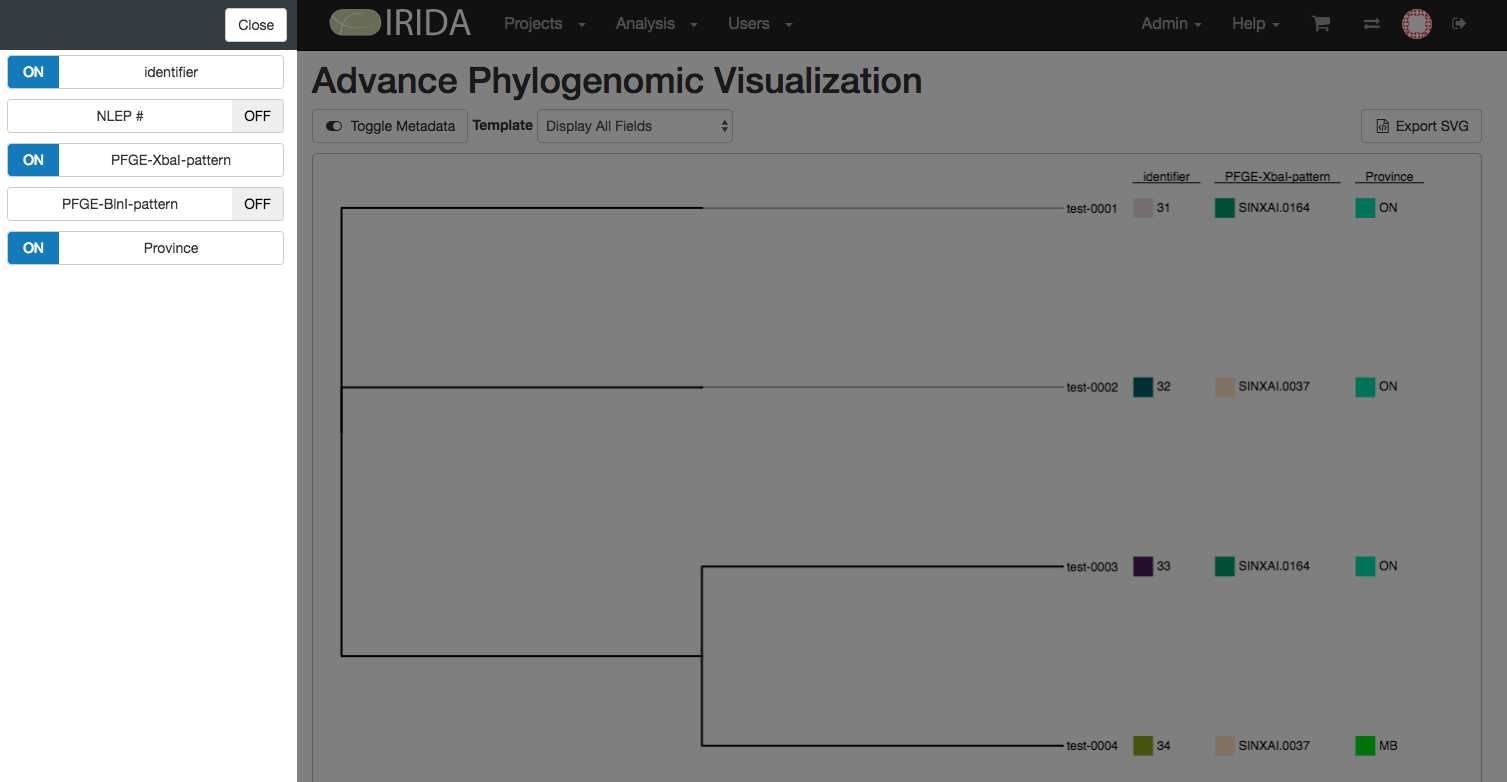
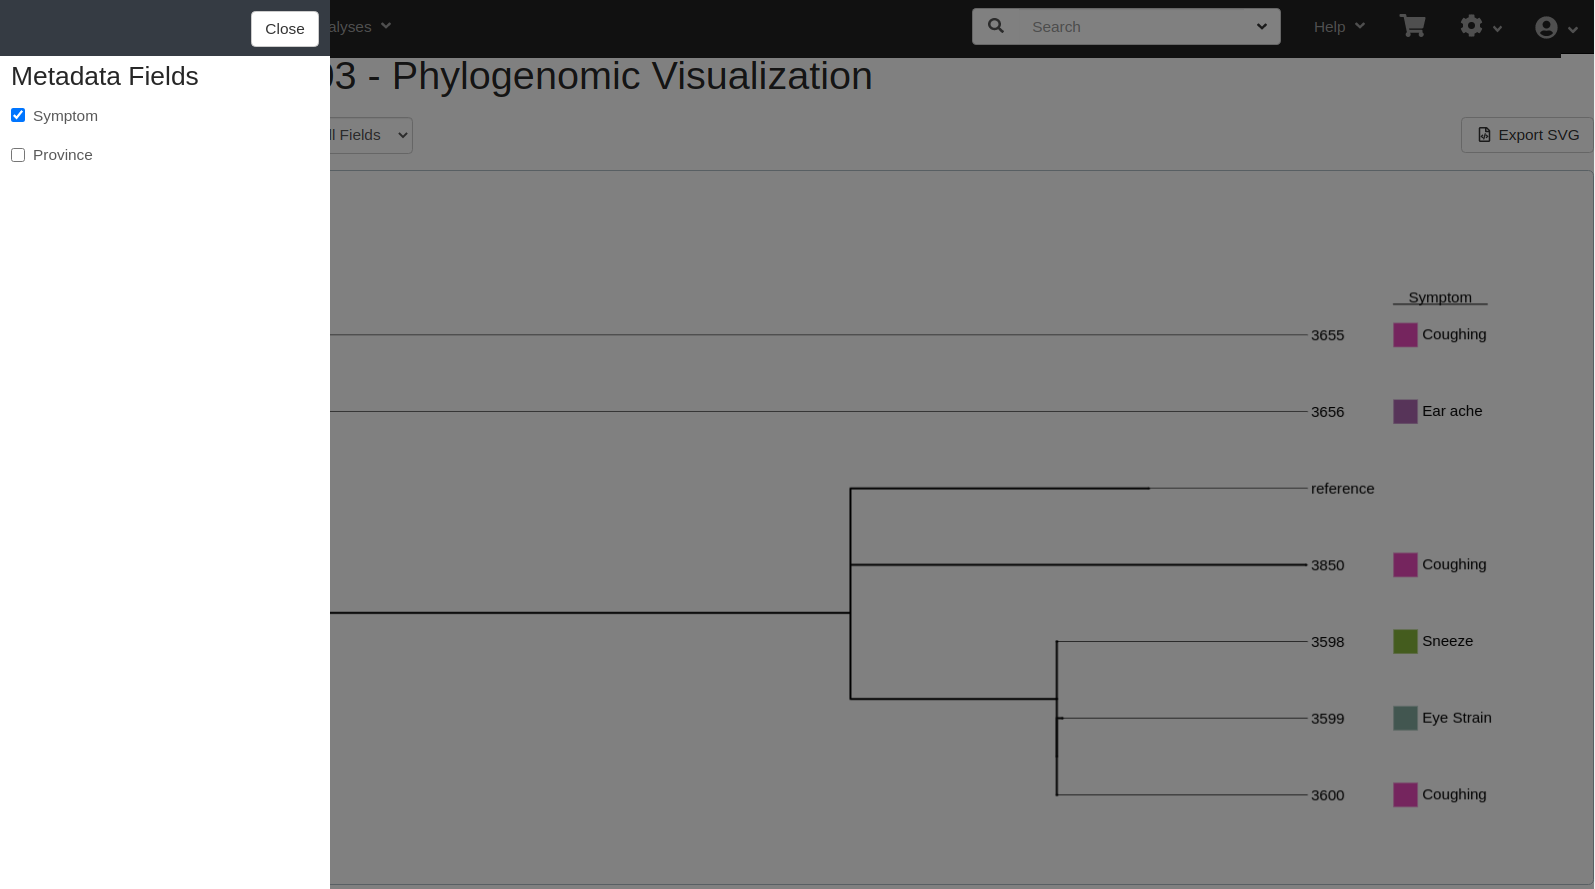
:memo: Update user docs and added a title

diff --git a/src/main/webapp/pages/analysis/visualizations/phylocanvas-metadata.html b/src/main/webapp/pages/analysis/visualizations/phylocanvas-metadata.html
@@ -73,6 +73,7 @@
         <div class="spaced-bottom" id="phylocanvas"></div>
       </script>
       <script type="text/ng-template" id="metadata-component.tmpl.html">
+        <h3 th:text="#{visualization.phylogenomics.fields.intro}">Metadata Fields</h3>
         <div class="spaced-bottom" ng-repeat="term in $ctrl.terms">
           <div class="checkbox">
             <label><input ng-model="term.selected" type="checkbox" ng-change="$ctrl.onSelectionChange(term)"/> {{term.term}}</label>

diff --git a/doc/user/user/analysis-visualizations/index.md b/doc/user/user/analysis-visualizations/index.md
@@ -31,7 +31,7 @@ To get to the advanced visualization page, on the analysis page, click the `View
 
 #### Toggling Sample Metadata Fields
 
-Individual Metadata Fields can be displayed or hidden by clicking `Toggle Metadata` button, which will open a side panel displaying the toggles for all the fields.  
+Individual Metadata Fields can be displayed or hidden by clicking `Toggle Metadata` button, which will open a side panel displaying a list of metadata fields with checkboxes to make them visible or hidden.  
 
 ![Open metadata selection btn](images/toggle_metadata_button.png)
 
@@ -39,7 +39,7 @@ Individual metadata field by clicking on the field label in the side panel.
 
 ![Toggle metadata field](images/toggle_metadatafield.png)
 
-After selecting 'PFGE-BlnI-pattern' the toggle is set to off and the metadata column is removed from the image.
+After unchecking the checkbox next to 'Province' the metadata column is removed from the image.
 
 ![Result of removing 'PFGE-BlnI-pattern'](images/toggle_metadatafield_after.png)
 
